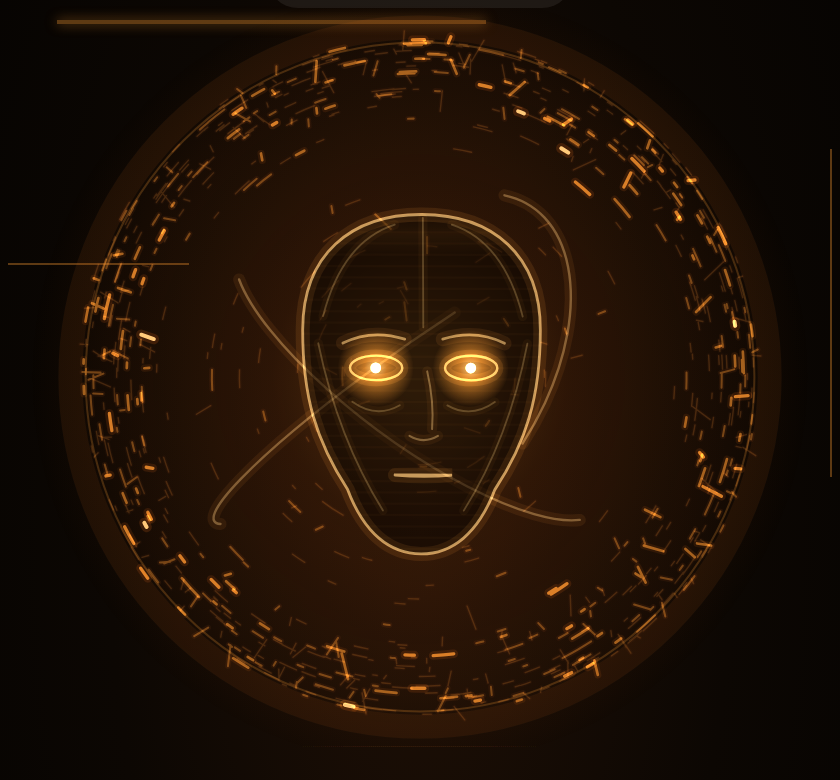
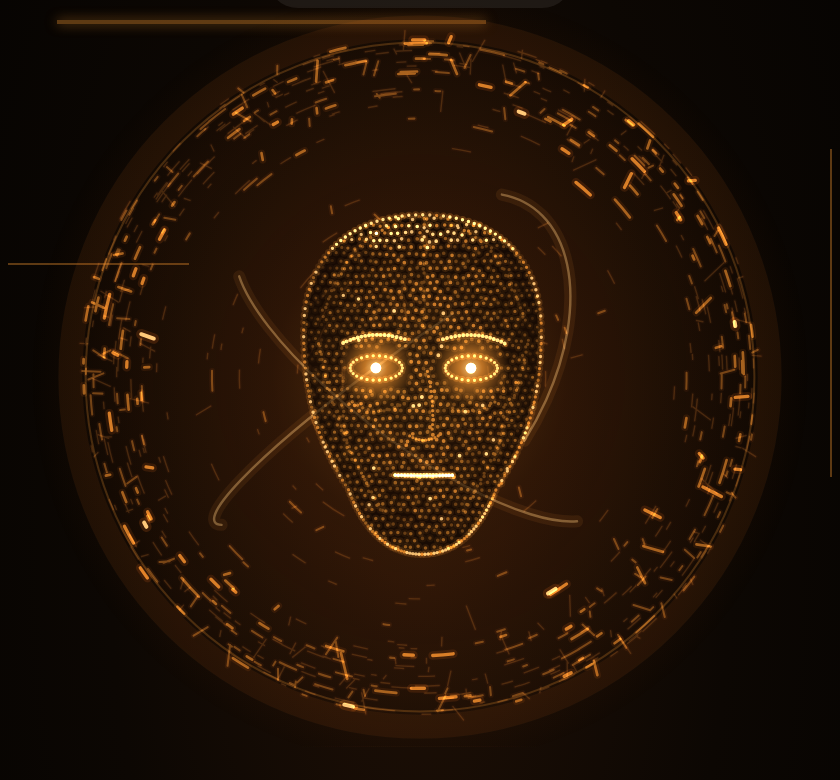
ATLAS: Gesicht als Punktwolke aus Lichtpunkten
Das holografische Gesicht besteht jetzt aus rund 1.500 Lichtpunkten mit
plastischer Helligkeit (Wangenknochen, Stirn, Augenhöhlen) und 3D-Parallaxe;
Umriss, Brauen, Nase, Mund und Lidränder als dichte Punktreihen, Scan-Balken
lässt die Punkte aufleuchten. Punkte nach Helligkeit gebündelt gezeichnet.

Claude-Session: https://claude.ai/code/session_01Er7eh7iJrbStEKkddCDg1p

diff --git a/ATLAS/ATLAS/UI/Main/AtlasHologramView.swift b/ATLAS/ATLAS/UI/Main/AtlasHologramView.swift
@@ -1,8 +1,8 @@
 import SwiftUI
 
 /// ATLAS als Hologramm (Standard-Darstellung): eine glühende, bernsteinfarbene Kugel aus
-/// Lichtsplittern und Umlaufbahnen – inspiriert von J.A.R.V.I.S. – mit einem holografischen
-/// Gesicht im Zentrum. Das Gesicht blinzelt, hält Blickkontakt und bewegt beim Sprechen den
+/// Lichtsplittern und Umlaufbahnen – inspiriert von J.A.R.V.I.S. – mit einem Gesicht aus
+/// rund 1.500 Lichtpunkten im Zentrum. Das Gesicht blinzelt, hält Blickkontakt und bewegt beim Sprechen den
 /// Mund; die Kugel reagiert auf Ihre Stimme (Zuhören), dreht sich schneller beim Nachdenken
 /// und pulsiert beim Sprechen.
 ///
@@ -227,15 +227,15 @@ struct AtlasHologramView: View {
         }
     }
 
-    /// Das holografische Gesicht: Umriss, Raster, Scan-Balken, glühende Augen, Brauen, Mund.
+    /// Das holografische Gesicht als Punktwolke: Fläche mit Tiefe, Umriss- und Konturpunkte,
+    /// bewegliche Brauen, Nase, Mund und Lidränder aus Punkten sowie glühende Augenkerne.
     private func drawFace(_ ctx: inout GraphicsContext, center: CGPoint, radius R: Double, energy en: Double,
                           t: Double, motion: Double, expr: AtlasFaceView.Expression, mouth: Double) {
         let H = R, W = H * 0.7
         let yaw = (sin(t * 0.37) * 0.035 + sin(t * 0.91) * 0.012) * motion
         let pitch = sin(t * 0.29) * 0.02 * motion
         let fx = yaw * W * 0.55, fy = pitch * H * 0.5
-        let flickerFace = 0.82 + 0.18 * sin(t * 23) * sin(t * 7.1)
-        let faceA = min(1, (0.75 + 0.35 * en) * flickerFace)
+        let faceA = min(1, (0.8 + 0.3 * en) * (0.9 + 0.1 * sin(t * 23) * sin(t * 7.1)))
 
         var face = ctx
         let offsetX: Double = Double(center.x) + yaw * W * 0.35
@@ -243,116 +243,229 @@ struct AtlasHologramView: View {
         face.translateBy(x: offsetX, y: offsetY)
         face.rotate(by: .radians((expr.headTilt + sin(t * 0.23) * 0.012) * motion))
 
-        let head = AtlasMotion.headPath(W: W, H: H)
-
-        // Dunkler Grund, damit das Gesicht aus der Kugel heraustritt
+        // Dunkler Grund, damit das Gesicht vor der Kugel steht
         var shade = face
         shade.blendMode = .normal
-        shade.fill(head, with: .color(Color(red: 0.04, green: 0.02, blue: 0.01).opacity(0.55)))
+        shade.fill(AtlasMotion.headPath(W: W, H: H),
+                   with: .color(Color(red: 0.03, green: 0.015, blue: 0.004).opacity(0.62)))
 
-        // Hologramm-Raster und wandernder Scan-Balken
-        var inside = face
-        inside.clip(to: head)
-        var lines = Path()
-        let step = H / 30
-        let shift = (t * 12).truncatingRemainder(dividingBy: step)
-        var y = -H / 2 + shift
-        while y < H / 2 {
-            lines.move(to: CGPoint(x: -W / 2, y: y))
-            lines.addLine(to: CGPoint(x: W / 2, y: y))
-            y += step
+        let unit = R / 190
+        let scanY = ((t * 0.32).truncatingRemainder(dividingBy: 1.4) - 0.2) * H - H / 2
+        func scanBoost(_ y: Double) -> Double {
+            let d = (y - scanY) / (H * 0.035)
+            return 1 + 1.6 * exp(-d * d)
         }
-        inside.stroke(lines, with: .color(amber.opacity(0.07 * faceA)), lineWidth: 1)
-        let scanY = ((t * 0.35).truncatingRemainder(dividingBy: 1.4) - 0.2) * H - H / 2
-        inside.fill(Path(CGRect(x: -W / 2, y: scanY - H * 0.06, width: W, height: H * 0.12)),
-                    with: .linearGradient(
-                        Gradient(colors: [amber.opacity(0), amber.opacity(0.16 * faceA), amber.opacity(0)]),
-                        startPoint: CGPoint(x: 0, y: scanY - H * 0.06), endPoint: CGPoint(x: 0, y: scanY + H * 0.06)))
 
-        glow(&face, head, alpha: 0.7 * faceA, width: 1.4)
+        var dots = DotBuckets()
 
-        // Konturlinien wie ein Drahtgitter
-        var contour = Path()
-        contour.move(to: CGPoint(x: fx * 0.5, y: -0.49 * H))
-        contour.addLine(to: CGPoint(x: fx * 0.8, y: -0.17 * H + fy))
-        for side in [-1.0, 1.0] {
-            contour.move(to: CGPoint(x: side * 0.44 * W + fx * 0.6, y: -0.12 * H))
-            contour.addQuadCurve(to: CGPoint(x: side * 0.17 * W + fx, y: 0.37 * H + fy),
-                                 control: CGPoint(x: side * 0.36 * W + fx, y: 0.16 * H))
-            contour.move(to: CGPoint(x: side * 0.12 * W + fx * 0.7, y: -0.47 * H))
-            contour.addQuadCurve(to: CGPoint(x: side * 0.42 * W + fx * 0.6, y: -0.2 * H),
-                                 control: CGPoint(x: side * 0.34 * W + fx * 0.6, y: -0.42 * H))
-            contour.move(to: CGPoint(x: side * 0.3 * W + fx, y: 0.05 * H + fy))
-            contour.addQuadCurve(to: CGPoint(x: side * 0.1 * W + fx, y: 0.06 * H + fy),
-                                 control: CGPoint(x: side * 0.2 * W + fx, y: 0.1 * H + fy))
+        // Gesichtsfläche: vorne heller, Ränder dunkler; vordere Punkte verschieben sich stärker (3D)
+        for d in Self.faceDots {
+            let par = 0.3 + 0.9 * d.z
+            let x = d.u * W + fx * par
+            let y = d.v * H + fy * par + sin(t * 1.3 + d.phase) * 0.0025 * H
+            let a = d.brightness * (0.72 + 0.28 * sin(t * d.flicker + d.phase)) * faceA * scanBoost(y)
+            dots.add(x: x, y: y, alpha: a, size: unit * (0.55 + 0.55 * d.z))
         }
-        glow(&face, contour, alpha: 0.28 * faceA, width: 0.9)
+        for d in Self.lineDots {
+            let par = 0.3 + 0.9 * d.z
+            let x = d.u * W + fx * par, y = d.v * H + fy * par
+            let a = d.brightness * (0.8 + 0.2 * sin(t * 3 + d.phase)) * faceA * scanBoost(y)
+            dots.add(x: x, y: y, alpha: a, size: unit * 0.95)
+        }
 
-        // Augen: glühende Kerne mit Blick und Blinzeln
+        // Bewegliche Teile, jedes Bild neu abgetastet
         let openness = max(0.06, expr.eyeOpen * (1 - AtlasMotion.blink(t)))
         let gaze = AtlasMotion.gaze(t, state: state)
         let eyeGlow = 0.6 + 0.4 * expr.glow
+        var eyeCores: [(CGPoint, Double)] = []
         for side in [-1.0, 1.0] {
             let ex = side * 0.2 * W + fx, ey = -0.05 * H + fy
-            let ew = 0.22 * W, eh = max(0.085 * H * openness, 1.2)
-            glow(&face, Path(ellipseIn: CGRect(x: ex - ew / 2, y: ey - eh / 2, width: ew, height: eh)),
-                 alpha: 0.7 * faceA, width: 1.2)
-            let ix = ex + gaze.x * ew * 0.25, iy = ey + gaze.y * eh * 0.3
-            let ir = 0.035 * H * min(1, openness * 1.3)
-            face.fill(circle(CGPoint(x: ix, y: iy), ir * 3.2),
-                      with: .radialGradient(
-                        Gradient(stops: [
-                            .init(color: Self.amberCore.opacity(eyeGlow), location: 0),
-                            .init(color: amber.opacity(0.75 * eyeGlow), location: 0.3),
-                            .init(color: amber.opacity(0), location: 1),
-                        ]),
-                        center: CGPoint(x: ix, y: iy), startRadius: 0, endRadius: ir * 3.2))
-            face.fill(circle(CGPoint(x: ix, y: iy), ir * 0.45),
-                      with: .color(Color(red: 1, green: 0.96, blue: 0.88).opacity(eyeGlow)))
-
+            let ew = 0.22 * W, eh = 0.085 * H * openness
+            for i in 0..<26 {
+                let angle = Double(i) / 26 * 2 * .pi
+                dots.add(x: ex + cos(angle) * ew / 2, y: ey + sin(angle) * eh / 2, alpha: 0.75 * faceA, size: unit * 0.9)
+            }
             let base = -0.135 * H + fy - expr.browRaise * 0.025 * H
-            var brow = Path()
-            brow.move(to: CGPoint(x: side * 0.08 * W + fx, y: base - expr.browInner * 0.02 * H))
-            brow.addQuadCurve(to: CGPoint(x: side * 0.34 * W + fx, y: base + 0.012 * H),
-                              control: CGPoint(x: side * 0.22 * W + fx, y: base - 0.03 * H))
-            glow(&face, brow, alpha: 0.6 * faceA, width: 1.4)
+            dots.addQuad(from: (side * 0.08 * W + fx, base - expr.browInner * 0.02 * H),
+                         control: (side * 0.22 * W + fx, base - 0.03 * H),
+                         to: (side * 0.34 * W + fx, base + 0.012 * H),
+                         count: 16, alpha: 0.85 * faceA, size: unit * 1.1)
+            let ir = 0.035 * H * min(1, openness * 1.3)
+            eyeCores.append((CGPoint(x: ex + Double(gaze.x) * ew * 0.25, y: ey + Double(gaze.y) * eh * 0.3), ir))
         }
-
-        // Nase
-        var nose = Path()
-        nose.move(to: CGPoint(x: 0.015 * W + fx, y: -0.04 * H + fy))
-        nose.addQuadCurve(to: CGPoint(x: 0.035 * W + fx * 1.1, y: 0.13 * H + fy),
-                          control: CGPoint(x: 0.045 * W + fx, y: 0.05 * H + fy))
-        nose.move(to: CGPoint(x: -0.06 * W + fx * 1.1, y: 0.15 * H + fy))
-        nose.addQuadCurve(to: CGPoint(x: 0.06 * W + fx * 1.1, y: 0.15 * H + fy),
-                          control: CGPoint(x: fx * 1.1, y: 0.175 * H + fy))
-        glow(&face, nose, alpha: 0.4 * faceA, width: 1)
+        dots.addQuad(from: (0.015 * W + fx, -0.04 * H + fy), control: (0.045 * W + fx, 0.05 * H + fy),
+                     to: (0.035 * W + fx * 1.1, 0.13 * H + fy), count: 12, alpha: 0.55 * faceA, size: unit * 0.9)
+        dots.addQuad(from: (-0.06 * W + fx * 1.1, 0.15 * H + fy), control: (fx * 1.1, 0.175 * H + fy),
+                     to: (0.06 * W + fx * 1.1, 0.15 * H + fy), count: 9, alpha: 0.6 * faceA, size: unit * 0.9)
 
         // Mund – öffnet sich im Takt der gesprochenen Wörter
         let mx = fx * 1.05, my = 0.27 * H + fy
         let half = 0.12 * W * (1 - mouth * 0.15)
         let corner = -expr.smile * 0.018 * H
         let gap = mouth * 0.06 * H
-        let left = CGPoint(x: mx - half, y: my + corner), right = CGPoint(x: mx + half, y: my + corner)
-        var lips = Path()
-        lips.move(to: left)
-        lips.addQuadCurve(to: right, control: CGPoint(x: mx, y: my - gap * 0.6 - 0.006 * H))
-        lips.addQuadCurve(to: left, control: CGPoint(x: mx, y: my + gap * 1.4 + expr.smile * 0.012 * H))
+        let mouthA = (0.85 + 0.15 * mouth) * faceA
+        dots.addQuad(from: (mx - half, my + corner), control: (mx, my - gap * 0.6 - 0.006 * H),
+                     to: (mx + half, my + corner), count: 18, alpha: mouthA, size: unit * 1.05)
+        dots.addQuad(from: (mx - half, my + corner), control: (mx, my + gap * 1.4 + expr.smile * 0.012 * H),
+                     to: (mx + half, my + corner), count: 18, alpha: mouthA * 0.8, size: unit)
         if mouth > 0.05 {
-            face.fill(lips, with: .color(amber.opacity(0.18 + 0.35 * mouth)))
+            var inner = Path()
+            inner.move(to: CGPoint(x: mx - half, y: my + corner))
+            inner.addQuadCurve(to: CGPoint(x: mx + half, y: my + corner), control: CGPoint(x: mx, y: my - gap * 0.6))
+            inner.addQuadCurve(to: CGPoint(x: mx - half, y: my + corner), control: CGPoint(x: mx, y: my + gap * 1.4))
+            face.fill(inner, with: .color(amber.opacity(0.12 + 0.3 * mouth)))
         }
-        glow(&face, lips, alpha: 0.7 * faceA, width: 1.4)
+
+        // Glühende Augenkerne
+        for (core, ir) in eyeCores {
+            face.fill(circle(core, ir * 3.2),
+                      with: .radialGradient(
+                        Gradient(stops: [
+                            .init(color: Self.amberCore.opacity(eyeGlow), location: 0),
+                            .init(color: amber.opacity(0.75 * eyeGlow), location: 0.3),
+                            .init(color: amber.opacity(0), location: 1),
+                        ]),
+                        center: core, startRadius: 0, endRadius: ir * 3.2))
+            face.fill(circle(core, ir * 0.45), with: .color(Color(red: 1, green: 0.96, blue: 0.88).opacity(eyeGlow)))
+        }
+
+        // Punkte zeichnen: weicher Schein + heller Kern, nach Helligkeit gebündelt
+        for (index, path) in dots.paths.enumerated() where !path.isEmpty {
+            let a = Double(index + 1) / Double(DotBuckets.count)
+            face.stroke(path, with: .color(amber.opacity(a * 0.22)), lineWidth: unit * 2.2)
+            face.fill(path, with: .color((index >= DotBuckets.count - 3 ? Self.amberCore : amber).opacity(a)))
+        }
     }
+
+    /// Sammelt Lichtpunkte in wenigen Pfaden – einer pro Helligkeitsstufe.
+    private struct DotBuckets {
+        static let count = 7
+        var paths = [Path](repeating: Path(), count: count)
+
+        mutating func add(x: Double, y: Double, alpha: Double, size: Double) {
+            guard alpha >= 0.035 else { return }
+            let index = min(Self.count - 1, Int(min(alpha, 0.999) * Double(Self.count)))
+            paths[index].addEllipse(in: CGRect(x: x - size, y: y - size, width: size * 2, height: size * 2))
+        }
+
+        mutating func addQuad(from a: (Double, Double), control q: (Double, Double), to c: (Double, Double),
+                              count n: Int, alpha: Double, size: Double) {
+            for i in 0...n {
+                let s = Double(i) / Double(n), k = 1 - s
+                add(x: k * k * a.0 + 2 * k * s * q.0 + s * s * c.0,
+                    y: k * k * a.1 + 2 * k * s * q.1 + s * s * c.1,
+                    alpha: alpha, size: size)
+            }
+        }
+    }
+
+    // MARK: - Punktwolke des Gesichts (einmal berechnet)
+
+    /// Ein Lichtpunkt im Gesicht. u relativ zur Kopfbreite, v relativ zur Kopfhöhe, z = Tiefe (1 = vorne).
+    private struct FaceDot {
+        let u: Double, v: Double, z: Double
+        let brightness: Double
+        let flicker: Double
+        let phase: Double
+    }
+
+    private static func seededRandom(_ seed: UInt64) -> () -> Double {
+        var state = seed
+        return {
+            state &+= 0x9E37_79B9_7F4A_7C15
+            var z = state
+            z = (z ^ (z >> 30)) &* 0xBF58_476D_1CE4_E5B9
+            z = (z ^ (z >> 27)) &* 0x94D0_49BB_1331_11EB
+            z ^= z >> 31
+            return Double(z >> 11) / Double(1 << 53)
+        }
+    }
+
+    /// Hexagonales Punktraster innerhalb des Kopfes mit plastischer Helligkeit.
+    private static let faceDots: [FaceDot] = {
+        let random = AtlasHologramView.seededRandom(11)
+        let head = AtlasMotion.headPath(W: 700, H: 1000)
+        var list: [FaceDot] = []
+        let step = 0.021
+        let du = step / 0.7
+        var row = 0
+        var v = -0.49
+        while v <= 0.49 {
+            var u = -0.5 + Double(row % 2) * du / 2
+            while u <= 0.5 {
+                let ju = u + (random() - 0.5) * du * 0.35
+                let jv = v + (random() - 0.5) * step * 0.35
+                u += du
+                guard head.contains(CGPoint(x: ju * 700, y: jv * 1000)) else { continue }
+                // Augenöffnungen frei lassen – dort sitzen die glühenden Kerne
+                let inEye = [-1.0, 1.0].contains { side in
+                    pow((ju - side * 0.2) / 0.15, 2) + pow((jv + 0.05) / 0.065, 2) < 1
+                }
+                if inEye { continue }
+                let nu = ju / 0.5, nv = (jv + 0.02) / 0.5
+                let z = sqrt(max(0, 1 - 0.8 * nu * nu - 0.35 * nv * nv))
+                var b = 0.1 + 0.5 * pow(z, 1.6)
+                b += 0.18 * exp(-(pow((abs(ju) - 0.3) / 0.09, 2) + pow((jv - 0.03) / 0.07, 2)))  // Wangenknochen
+                b += 0.12 * exp(-(pow(ju / 0.22, 2) + pow((jv + 0.3) / 0.1, 2)))                 // Stirn
+                b += 0.1 * exp(-(pow(ju / 0.05, 2) + pow((jv - 0.06) / 0.1, 2)))                 // Nasenrücken
+                for side in [-1.0, 1.0] {
+                    let d = hypot((ju - side * 0.2) / 0.2, (jv + 0.05) / 0.12)
+                    if d < 1 { b *= 0.45 + 0.55 * d }                                           // Augenhöhlen
+                }
+                if random() < 0.06 { b *= 1.8 }                                                  // einzelne Funken
+                list.append(FaceDot(u: ju, v: jv, z: z, brightness: min(b, 0.95),
+                                    flicker: 0.8 + 2.5 * random(), phase: random() * 6.28))
+            }
+            v += step
+            row += 1
+        }
+        return list
+    }()
+
+    /// Umriss und Gesichtskonturen als dichte Punktreihen.
+    private static let lineDots: [FaceDot] = {
+        let random = AtlasHologramView.seededRandom(23)
+        var list: [FaceDot] = []
+        // Umriss: dieselben Kurven wie AtlasMotion.headPath, in Einheiten von W und H
+        let start = (0.0, -0.5)
+        let segments: [((Double, Double), (Double, Double), (Double, Double))] = [
+            ((0.3, -0.5), (0.5, -0.38), (0.5, -0.16)),
+            ((0.5, 0.04), (0.44, 0.17), (0.31, 0.31)),
+            ((0.24, 0.44), (0.13, 0.5), (0, 0.5)),
+            ((-0.13, 0.5), (-0.24, 0.44), (-0.31, 0.31)),
+            ((-0.44, 0.17), (-0.5, 0.04), (-0.5, -0.16)),
+            ((-0.5, -0.38), (-0.3, -0.5), (0, -0.5)),
+        ]
+        var previous = start
+        for (c1, c2, end) in segments {
+            for i in 0..<30 {
+                let s = Double(i) / 30, k = 1 - s
+                let u = k * k * k * previous.0 + 3 * k * k * s * c1.0 + 3 * k * s * s * c2.0 + s * s * s * end.0
+                let v = k * k * k * previous.1 + 3 * k * k * s * c1.1 + 3 * k * s * s * c2.1 + s * s * s * end.1
+                list.append(FaceDot(u: u, v: v, z: 0.1, brightness: 0.8, flicker: 3, phase: random() * 6.28))
+            }
+            previous = end
+        }
+        func quad(_ a: (Double, Double), _ q: (Double, Double), _ c: (Double, Double),
+                  _ n: Int, _ brightness: Double, _ z: Double) {
+            for i in 0...n {
+                let s = Double(i) / Double(n), k = 1 - s
+                list.append(FaceDot(u: k * k * a.0 + 2 * k * s * q.0 + s * s * c.0,
+                                    v: k * k * a.1 + 2 * k * s * q.1 + s * s * c.1,
+                                    z: z, brightness: brightness, flicker: 3, phase: random() * 6.28))
+            }
+        }
+        quad((0, -0.49), (0, -0.33), (0, -0.17), 12, 0.35, 0.8)
+        for side in [-1.0, 1.0] {
+            quad((side * 0.44, -0.12), (side * 0.36, 0.16), (side * 0.17, 0.37), 24, 0.42, 0.4)
+            quad((side * 0.12, -0.47), (side * 0.34, -0.42), (side * 0.42, -0.2), 16, 0.32, 0.35)
+            quad((side * 0.3, 0.05), (side * 0.2, 0.1), (side * 0.1, 0.06), 9, 0.4, 0.7)
+            quad((side * 0.33, -0.05), (side * 0.36, 0.1), (side * 0.3, 0.22), 10, 0.25, 0.5)
+        }
+        return list
+    }()
 
     // MARK: - Hilfen
-
-    /// Leuchtende Linie: breiter, schwacher Schein plus heller Kern.
-    private func glow(_ ctx: inout GraphicsContext, _ path: Path, alpha: Double, width: Double) {
-        ctx.stroke(path, with: .color(amber.opacity(alpha * 0.18)),
-                   style: StrokeStyle(lineWidth: width * 5, lineCap: .round, lineJoin: .round))
-        ctx.stroke(path, with: .color(Self.amberCore.opacity(alpha)),
-                   style: StrokeStyle(lineWidth: width, lineCap: .round, lineJoin: .round))
-    }
 
     private func circle(_ center: CGPoint, _ radius: Double) -> Path {
         Path(ellipseIn: CGRect(x: Double(center.x) - radius, y: Double(center.y) - radius,

diff --git a/ATLAS/README.md b/ATLAS/README.md
@@ -11,7 +11,7 @@ Ihr persönlicher KI-Assistent für **iPhone und Mac** – eine native SwiftUI-A
 
 | Bereich | Funktionen |
 |---|---|
-| **Gesicht** | Standard: **Hologramm** – eine glühende, bernsteinfarbene Kugel aus Lichtsplittern und Umlaufbahnen (im Stil von J.A.R.V.I.S.) mit holografischem Gesicht: Blinzeln, Blickkontakt, Kopfbewegung, Mundbewegung synchron zu den Wörtern, eigene Mimik für Zuhören, Nachdenken und Sprechen; die Kugel reagiert auf Ihre Stimme. Wählbar: silbernes Gesicht oder sparsamer Energiekern. |
+| **Gesicht** | Standard: **Hologramm** – eine glühende, bernsteinfarbene Kugel aus Lichtsplittern und Umlaufbahnen (im Stil von J.A.R.V.I.S.) mit einem Gesicht aus Lichtpunkten: Blinzeln, Blickkontakt, Kopfbewegung, Mundbewegung synchron zu den Wörtern, eigene Mimik für Zuhören, Nachdenken und Sprechen; die Kugel reagiert auf Ihre Stimme. Wählbar: silbernes Gesicht oder sparsamer Energiekern. |
 | **Sprache** | Sprechen statt Tippen, automatische Pausenerkennung, Gesprächsmodus, Unterbrechen per Tippen, Deutsch und britisches Englisch, wählbare Stimme. |
 | **Wake-Word** | Bei geöffneter App „Atlas“ sagen → „Ja, Sir?“. Oder direkt: „Atlas, wie wird das Wetter morgen?“. Die Erkennung läuft ausschließlich auf dem Gerät. |
 | **Siri & Kurzbefehle** | „Siri, starte ATLAS“, „Siri, frag ATLAS“ (Antwort ohne App-Öffnen), „Siri, ATLAS Tagesübersicht“, „Siri, plane morgen mit ATLAS“. Auf den Action-Button legbar. |
